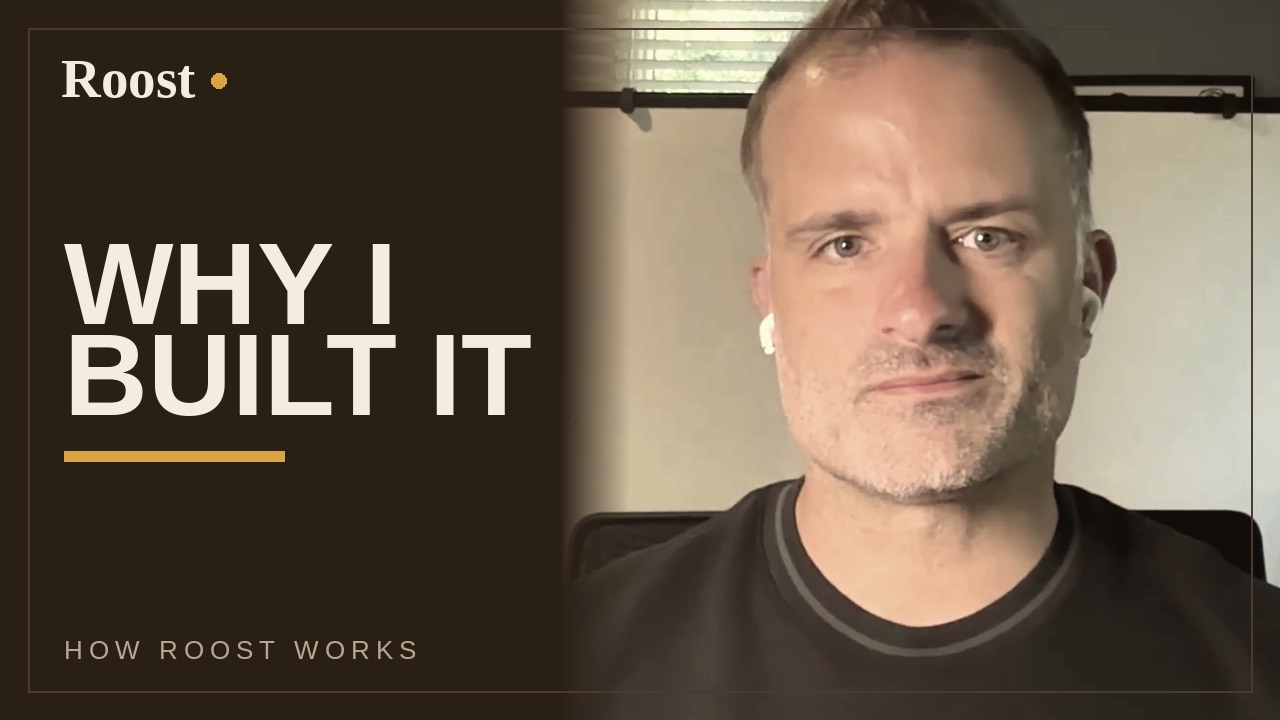
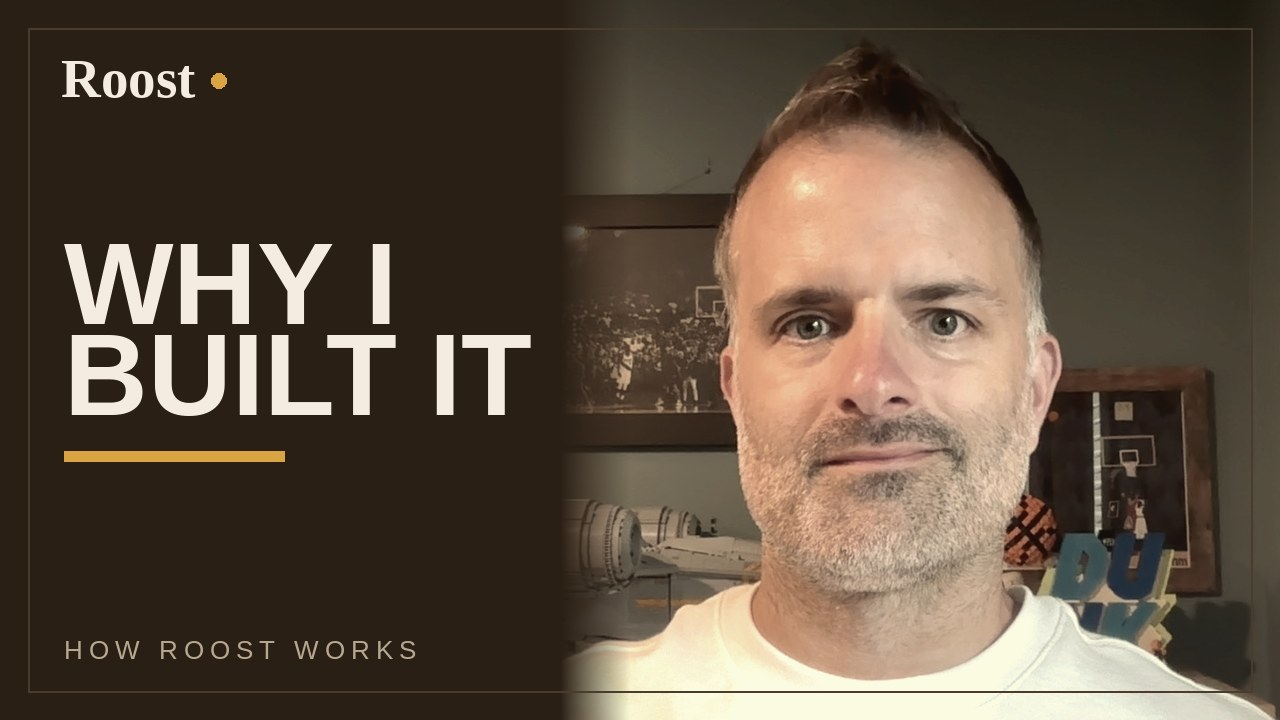
Swap founder video to reshot version in twelve-videos post (#39)
Change order 2026-08-03 (Change B). Hero video reshot with a new YouTube ID.

- [EMBED:n1bqHP-DeD0] -> [EMBED:eNfGBqXcQsM] (facade + youtube-nocookie
  unchanged).
- Replace the poster (same path, no code change) with the new footage frame.
- og:image points at post.image (same path), so it now serves the new frame
  automatically. LinkedIn caches OG data — run the post URL through LinkedIn
  Post Inspector after deploy to force a refresh.

No copy changes. Old video is now unlisted.

diff --git a/lib/posts.ts b/lib/posts.ts
@@ -81,7 +81,7 @@ And check that the screen recording is actually on.
 
 Here's the short video, if you want to see what a few months of evenings adds up to:
 
-[EMBED:n1bqHP-DeD0]
+[EMBED:eNfGBqXcQsM]
 
 [The full set is here](https://www.youtube.com/playlist?list=PLPt7QbXbpk0o)
 
